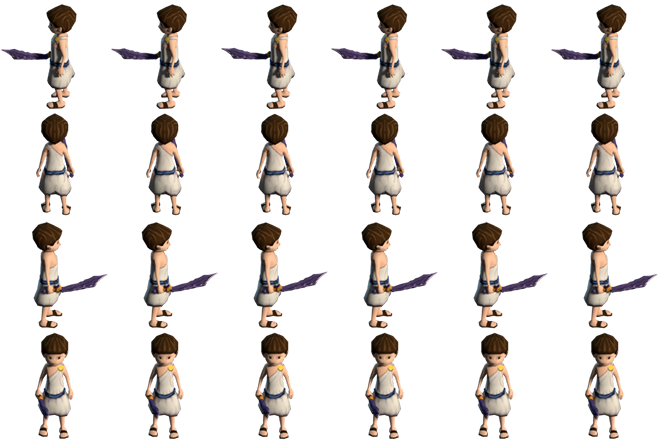
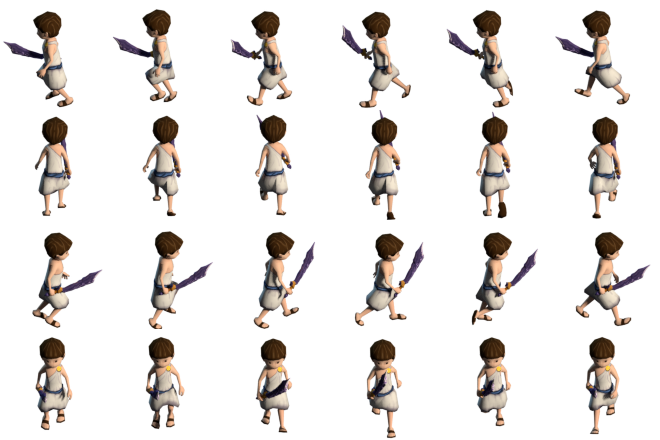
Sprite Player ta quase ok

diff --git a/Battle_Mytology_Project2/src/jogador.h b/Battle_Mytology_Project2/src/jogador.h
@@ -4,9 +4,9 @@
 #include "som.h"
 
 #define MAXSPEED 300.f
-#define FAT_ATRITO 8.f
+#define FAT_ATRITO 12.f
 #define VELOCIDADE 30.f
-#define VELOCIDADE_ANIMACAO 1.f / 5.f
+#define VELOCIDADE_ANIMACAO 1.f / 7.f
 #define TEMPO_ATAQUE 0.3f
 
 class Jogador {

diff --git a/Battle_Mytology_Project2/src/mapa.h b/Battle_Mytology_Project2/src/mapa.h
@@ -3,8 +3,8 @@
 #include "ofApp.h";
 #include "som.h"
 
-#define MAXSPEED 150.f
-#define FAT_ATRITO 8.f
+#define MAXSPEED 100.f
+#define FAT_ATRITO 15.f
 #define VELOCIDADE 30.f
 
 class Mapa {

diff --git a/Battle_Mytology_Project2/src/inimigo.h b/Battle_Mytology_Project2/src/inimigo.h
@@ -6,7 +6,7 @@
 
 #define MAX_AREA 500
 #define VELOCIDADE_ANIMACAO 0.7f
-#define VELOCIDADE 80.f
+#define VELOCIDADE 70.f
 #define CAMPO_VISAO 1200.f
 #define STUN_TIME 0.17f
 
